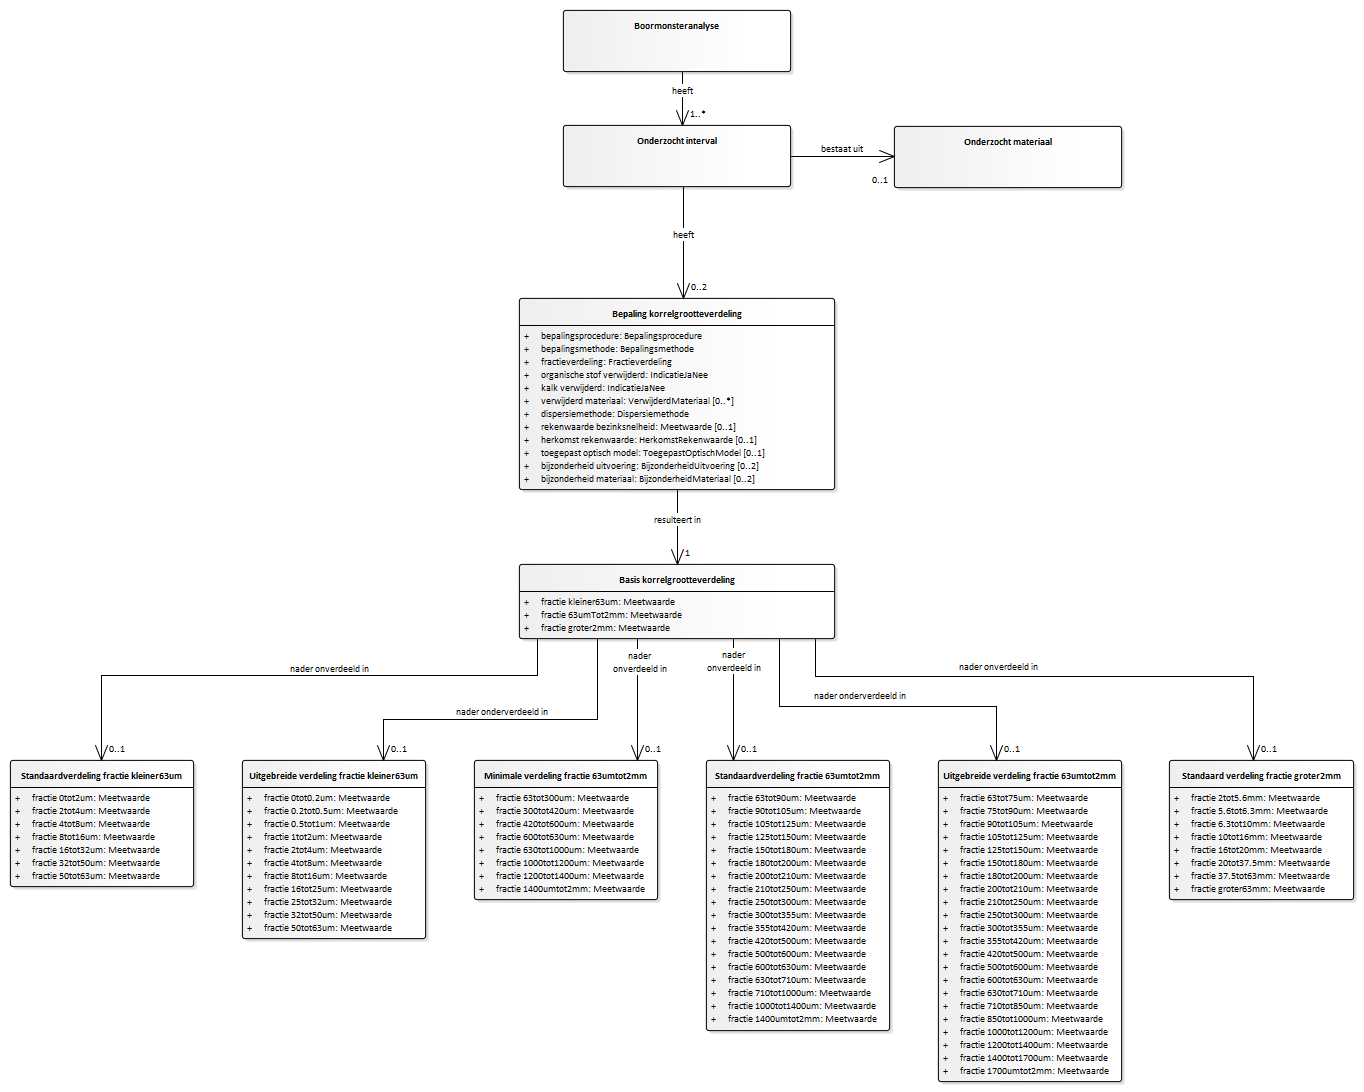
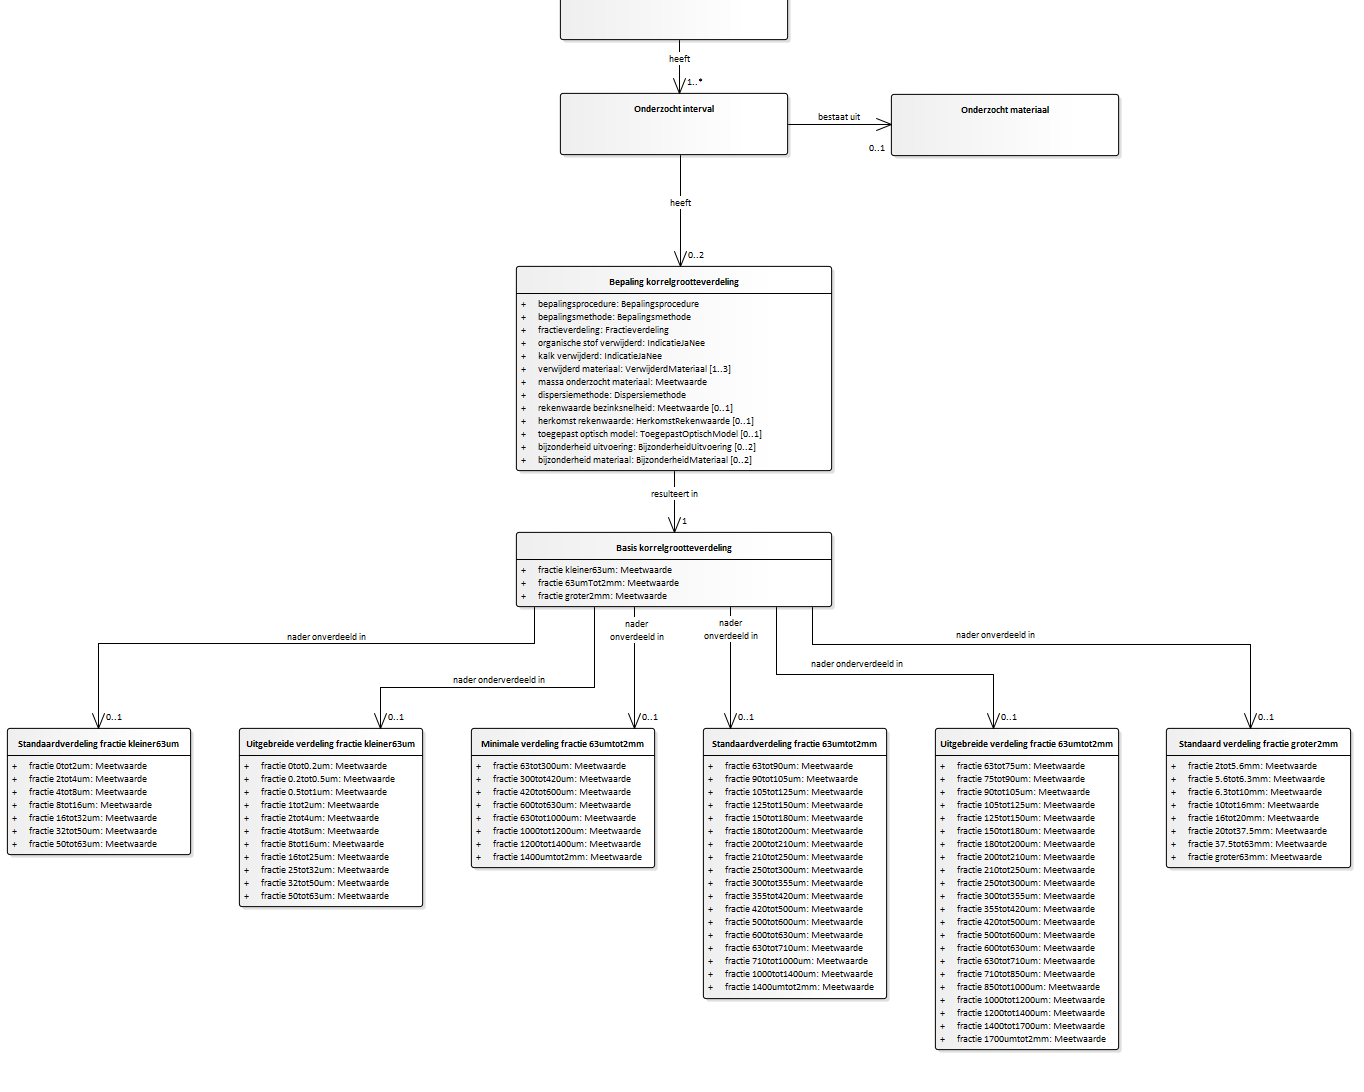
Conceptualmodel-GeologischbooronderzoekBHR-G-0.99-3-20200518-20200709-100316

diff --git a/data/BHR-G-cat.msword.html b/data/BHR-G-cat.msword.html
@@ -15,7 +15,7 @@
    <body>
       <p>Conceptual model/Geologisch booronderzoek (BHR-G)/20200518</p>
       <p>Imvertor: 1.61.0</p>
-      <p>Model release: Conceptualmodel-GeologischbooronderzoekBHR-G-0.99-3-20200518-20200709-091926</p>
+      <p>Model release: Conceptualmodel-GeologischbooronderzoekBHR-G-0.99-3-20200518-20200709-100316</p>
       <hr>
       <section>
          <h1>Artikel 1 Definitie van registratieobject, entiteiten en attributen</h1>
@@ -72,7 +72,7 @@
                </div>
                <div class="imageinfo overview"><img src="Images/EAID_76F6DEFC_B55C_48dc_8A41_C06CB9C946E4.png" usemap="#imagemap-EAID_76F6DEFC_B55C_48dc_8A41_C06CB9C946E4" alt="Diagram "><map name="imagemap-EAID_76F6DEFC_B55C_48dc_8A41_C06CB9C946E4"><area shape="rect" alt="Bepaling volumieke massa" coords="793,188,1071,419" href="#graph_EAID_298CDD06_E3A1_4ce0_81C4_5EE16A5EF6F6"><area shape="rect" alt="Bepaling watergehalte" coords="793,-6,1071,160" href="#graph_EAID_C3AD5786_B8A5_4e2a_8610_8EF3F1E36FDD"><area shape="rect" alt="Bepaling volumieke massa vaste delen" coords="793,680,1071,820" href="#graph_EAID_2D03813A_C48B_4e71_858B_6AABF0111E5E"><area shape="rect" alt="Bepaling droge volumieke massa" coords="793,434,1071,665" href="#graph_EAID_2A85811A_3E9F_4a76_9752_6A86F4B7BB4D"><area shape="rect" alt="Onderzocht materiaal" coords="6,192,318,345" href="#graph_EAID_F2AA089D_C13C_460b_9304_2860F47C68D5"><area shape="rect" alt="Onderzocht interval" coords="397,192,671,293" href="#graph_EAID_02F2AE73_C650_477c_AF76_2F01C5807B26"><area shape="rect" alt="Boormonsteranalyse" coords="420,-6,648,56" href="#graph_EAID_D7019E53_2AEA_424d_B23C_BFE117C25244"></map><p><b>Domeinmodel geologisch booronderzoek - Boormonsteranalyse deel 1</b></p>
                </div>
-               <div class="imageinfo overview"><img src="Images/EAID_BD093ADD_C997_4218_A851_4A8FA1B4D2AE.png" usemap="#imagemap-EAID_BD093ADD_C997_4218_A851_4A8FA1B4D2AE" alt="Diagram "><map name="imagemap-EAID_BD093ADD_C997_4218_A851_4A8FA1B4D2AE"><area shape="rect" alt="Standaard verdeling fractie groter2mm" coords="1169,760,1354,900" href="#graph_EAID_DEDDD48B_845A_4a4b_B5F8_66754B3716E5"><area shape="rect" alt="Minimale verdeling fractie 63umtot2mm" coords="474,760,658,900" href="#graph_EAID_37C18EF1_F6E5_4100_81F0_5B2455DC7B56"><area shape="rect" alt="Standaardverdeling fractie kleiner63um" coords="10,760,194,887" href="#graph_EAID_A81260B1_7C9C_49b5_859A_A69571BECD4E"><area shape="rect" alt="Standaardverdeling fractie 63umtot2mm" coords="706,760,890,1031" href="#graph_EAID_8EFCF3B0_F02E_4bf7_B06A_D093E01FEE7D"><area shape="rect" alt="Uitgebreide verdeling fractie 63umtot2mm" coords="938,760,1122,1082" href="#graph_EAID_6B18685C_A68D_4478_B8B0_6AB2253CEC5B"><area shape="rect" alt="Uitgebreide verdeling fractie kleiner63um" coords="242,760,426,939" href="#graph_EAID_FD36FD9B_0CD9_4ccf_B1D0_36FE69D35396"><area shape="rect" alt="Basis korrelgrootteverdeling" coords="519,564,835,639" href="#graph_EAID_1557892B_72DA_44a1_828D_9A05217296C3"><area shape="rect" alt="Bepaling korrelgrootteverdeling" coords="519,298,835,490" href="#graph_EAID_AE9D7D12_956B_4b02_A367_4D01567C0FCA"><area shape="rect" alt="Onderzocht materiaal" coords="894,126,1122,188" href="#graph_EAID_F2AA089D_C13C_460b_9304_2860F47C68D5"><area shape="rect" alt="Onderzocht interval" coords="563,125,791,187" href="#graph_EAID_02F2AE73_C650_477c_AF76_2F01C5807B26"><area shape="rect" alt="Boormonsteranalyse" coords="563,10,791,72" href="#graph_EAID_D7019E53_2AEA_424d_B23C_BFE117C25244"></map><p><b>Domeinmodel geologisch booronderzoek - Boormonsteranalyse deel 2</b></p>
+               <div class="imageinfo overview"><img src="Images/EAID_BD093ADD_C997_4218_A851_4A8FA1B4D2AE.png" usemap="#imagemap-EAID_BD093ADD_C997_4218_A851_4A8FA1B4D2AE" alt="Diagram "><map name="imagemap-EAID_BD093ADD_C997_4218_A851_4A8FA1B4D2AE"><area shape="rect" alt="Standaard verdeling fractie groter2mm" coords="1166,728,1351,868" href="#graph_EAID_DEDDD48B_845A_4a4b_B5F8_66754B3716E5"><area shape="rect" alt="Minimale verdeling fractie 63umtot2mm" coords="471,728,655,868" href="#graph_EAID_37C18EF1_F6E5_4100_81F0_5B2455DC7B56"><area shape="rect" alt="Standaardverdeling fractie kleiner63um" coords="7,728,191,855" href="#graph_EAID_A81260B1_7C9C_49b5_859A_A69571BECD4E"><area shape="rect" alt="Standaardverdeling fractie 63umtot2mm" coords="703,728,887,999" href="#graph_EAID_8EFCF3B0_F02E_4bf7_B06A_D093E01FEE7D"><area shape="rect" alt="Uitgebreide verdeling fractie 63umtot2mm" coords="935,728,1119,1050" href="#graph_EAID_6B18685C_A68D_4478_B8B0_6AB2253CEC5B"><area shape="rect" alt="Uitgebreide verdeling fractie kleiner63um" coords="239,728,423,907" href="#graph_EAID_FD36FD9B_0CD9_4ccf_B1D0_36FE69D35396"><area shape="rect" alt="Basis korrelgrootteverdeling" coords="516,532,832,607" href="#graph_EAID_1557892B_72DA_44a1_828D_9A05217296C3"><area shape="rect" alt="Bepaling korrelgrootteverdeling" coords="516,266,832,471" href="#graph_EAID_AE9D7D12_956B_4b02_A367_4D01567C0FCA"><area shape="rect" alt="Onderzocht materiaal" coords="891,94,1119,156" href="#graph_EAID_F2AA089D_C13C_460b_9304_2860F47C68D5"><area shape="rect" alt="Onderzocht interval" coords="560,93,788,155" href="#graph_EAID_02F2AE73_C650_477c_AF76_2F01C5807B26"><area shape="rect" alt="Boormonsteranalyse" coords="560,-22,788,40" href="#graph_EAID_D7019E53_2AEA_424d_B23C_BFE117C25244"></map><p><b>Domeinmodel geologisch booronderzoek - Boormonsteranalyse deel 2</b></p>
                </div>
                <div class="imageinfo overview"><img src="Images/EAID_787269C4_EE5C_4d30_BF1E_81A0EA5319F2.png" usemap="#imagemap-EAID_787269C4_EE5C_4d30_BF1E_81A0EA5319F2" alt="Diagram &#xA;"><map name="imagemap-EAID_787269C4_EE5C_4d30_BF1E_81A0EA5319F2"><area shape="rect" alt="Bepaling zwavelgehalte" coords="778,251,1019,352" href="#graph_EAID_A95F2969_E74B_498a_9103_D9A0526A32A2"><area shape="rect" alt="Bepaling organisch koolstofgehalte" coords="522,251,763,352" href="#graph_EAID_6A46413B_5AEB_4ef1_922E_DA9DFF45194D"><area shape="rect" alt="Gloeiverlies kalkgehalte" coords="287,432,499,494" href="#graph_EAID_95218F81_283F_4e32_83F8_57A7BE2A7D8E"><area shape="rect" alt="Bepaling kalkgehalte" coords="266,251,507,378" href="#graph_EAID_02490446_1BDE_4d67_ABBB_0DAD15F5EB54"><area shape="rect" alt="Gloeiverlies organischestofgehalte" coords="10,446,209,508" href="#graph_EAID_C2BD94B3_DFDC_4838_858F_BE3FEF16EF1B"><area shape="rect" alt="Bepaling organischestofgehalte" coords="10,251,251,417" href="#graph_EAID_BA7B1A13_3139_4ffa_AFB3_7B84734B7012"><area shape="rect" alt="Onderzocht materiaal" coords="662,139,878,167" href="#graph_EAID_F2AA089D_C13C_460b_9304_2860F47C68D5"><area shape="rect" alt="Onderzocht interval" coords="219,139,451,168" href="#graph_EAID_02F2AE73_C650_477c_AF76_2F01C5807B26"><area shape="rect" alt="Boormonsteranalyse" coords="219,10,451,38" href="#graph_EAID_D7019E53_2AEA_424d_B23C_BFE117C25244"></map><p><b>Domeinmodel geologisch booronderzoek - Boormonsteranalyse deel 3</b></p>
                </div>
@@ -14597,7 +14597,7 @@
                      </section>
                </section><a class="anchor" id="graph_EAID_AE9D7D12_956B_4b02_A367_4D01567C0FCA"></a><a class="anchor" id="global_class_Model_Bepalingkorrelgrootteverdeling"></a><section id="global_class_Model_Bepalingkorrelgrootteverdeling">
                   <h3>   Bepaling korrelgrootteverdeling</h3>
-                  <div class="imageinfo "><img src="Images/EAID_25CA73DE_1A63_4084_A882_7DF70F06F910.png" usemap="#imagemap-EAID_25CA73DE_1A63_4084_A882_7DF70F06F910" alt="Diagram "><map name="imagemap-EAID_25CA73DE_1A63_4084_A882_7DF70F06F910"><area shape="rect" alt="Basis korrelgrootteverdeling" coords="30,276,290,352" href="#graph_EAID_1557892B_72DA_44a1_828D_9A05217296C3"><area shape="rect" alt="Bepaling korrelgrootteverdeling" coords="10,10,312,202" href="#graph_EAID_AE9D7D12_956B_4b02_A367_4D01567C0FCA"></map><p><b></b></p>
+                  <div class="imageinfo "><img src="Images/EAID_25CA73DE_1A63_4084_A882_7DF70F06F910.png" usemap="#imagemap-EAID_25CA73DE_1A63_4084_A882_7DF70F06F910" alt="Diagram "><map name="imagemap-EAID_25CA73DE_1A63_4084_A882_7DF70F06F910"><area shape="rect" alt="Basis korrelgrootteverdeling" coords="1,264,261,340" href="#graph_EAID_1557892B_72DA_44a1_828D_9A05217296C3"><area shape="rect" alt="Bepaling korrelgrootteverdeling" coords="-19,-2,283,203" href="#graph_EAID_AE9D7D12_956B_4b02_A367_4D01567C0FCA"></map><p><b></b></p>
                   </div>
                   <table style="width: 100%;">
                      <colgroup style="width: 30%;"></colgroup>
@@ -14936,7 +14936,7 @@
                            </tr>
                            <tr>
                               <th>Kardinaliteit</th>
-                              <td>0..*</td>
+                              <td>1..3</td>
                            </tr>
                            <tr>
                               <th>Domein</th>
@@ -14951,15 +14951,6 @@
                               <td>Waardelijst uitbreidbaar</td>
                            </tr>
                            <tr>
-                              <th>Regels</th>
-                              <td>
-                                 
-                                 <p>Het attribuut moet aanwezig zijn wanneer de waarde van het attribuut beplingsmethode
-                                    gelijk is aan <em>natDroogZeven</em>.<br clear="none">
-                                    Het attribuut mag niet aanwezig zijn in alle andere gevallen.</p>
-                                 </td>
-                           </tr>
-                           <tr>
                               <th>Toelichting</th>
                               <td>
                                  
@@ -14967,6 +14958,62 @@
                                     Die bestanddelen worden gespecificeerd. Verwijdering gebeurt handmatig en enkel grove
                                     bestanddelen uit het materiaal groter dan 2 mm worden verwijderd. In het geval er
                                     geen bestanddelen worden verwijderd wordt de waarde geen vastgelegd. </p>
+                                 </td>
+                           </tr>
+                        </tbody>
+                     </table>
+                     </section><a class="anchor" id="detail_attribute_Model_Bepalingkorrelgrootteverdeling_massaonderzochtmateriaal"></a><section id="detail_attribute_Model_Bepalingkorrelgrootteverdeling_massaonderzochtmateriaal">
+                     <h4>  massa onderzocht materiaal</h4>
+                     
+                     <table style="width: 100%;">
+                        <colgroup style="width: 30%;"></colgroup>
+                        <colgroup style="width: 70%;"></colgroup>
+                        <tbody>
+                           <tr>
+                              <th>Type gegeven</th>
+                              <td>Attribuut van Bepaling korrelgrootteverdeling</td>
+                           </tr>
+                           <tr>
+                              <th>Definitie</th>
+                              <td>
+                                 
+                                 <p>De massa van het onderzocht materiaal.</p>
+                                 </td>
+                           </tr>
+                           <tr>
+                              <th>Juridische status</th>
+                              <td>Authentiek</td>
+                           </tr>
+                           <tr>
+                              <th>Kardinaliteit</th>
+                              <td>1</td>
+                           </tr>
+                           <tr>
+                              <th>Domein</th>
+                              <td></td>
+                           </tr>
+                           <tr>
+                              <th>&nbsp;&nbsp;Naam</th>
+                              <td>Meetwaarde 
+                                 2.1</td>
+                           </tr>
+                           <tr>
+                              <th>&nbsp;&nbsp;Type</th>
+                              <td>Getal</td>
+                           </tr>
+                           <tr>
+                              <th>&nbsp;&nbsp;Eenheid</th>
+                              <td>g (gram)</td>
+                           </tr>
+                           <tr>
+                              <th>&nbsp;&nbsp;Waardebereik</th>
+                              <td> vanaf 0</td>
+                           </tr>
+                           <tr>
+                              <th>Toelichting</th>
+                              <td>
+                                 
+                                 <p>Bij zeven [TODO]</p>
                                  </td>
                            </tr>
                         </tbody>
